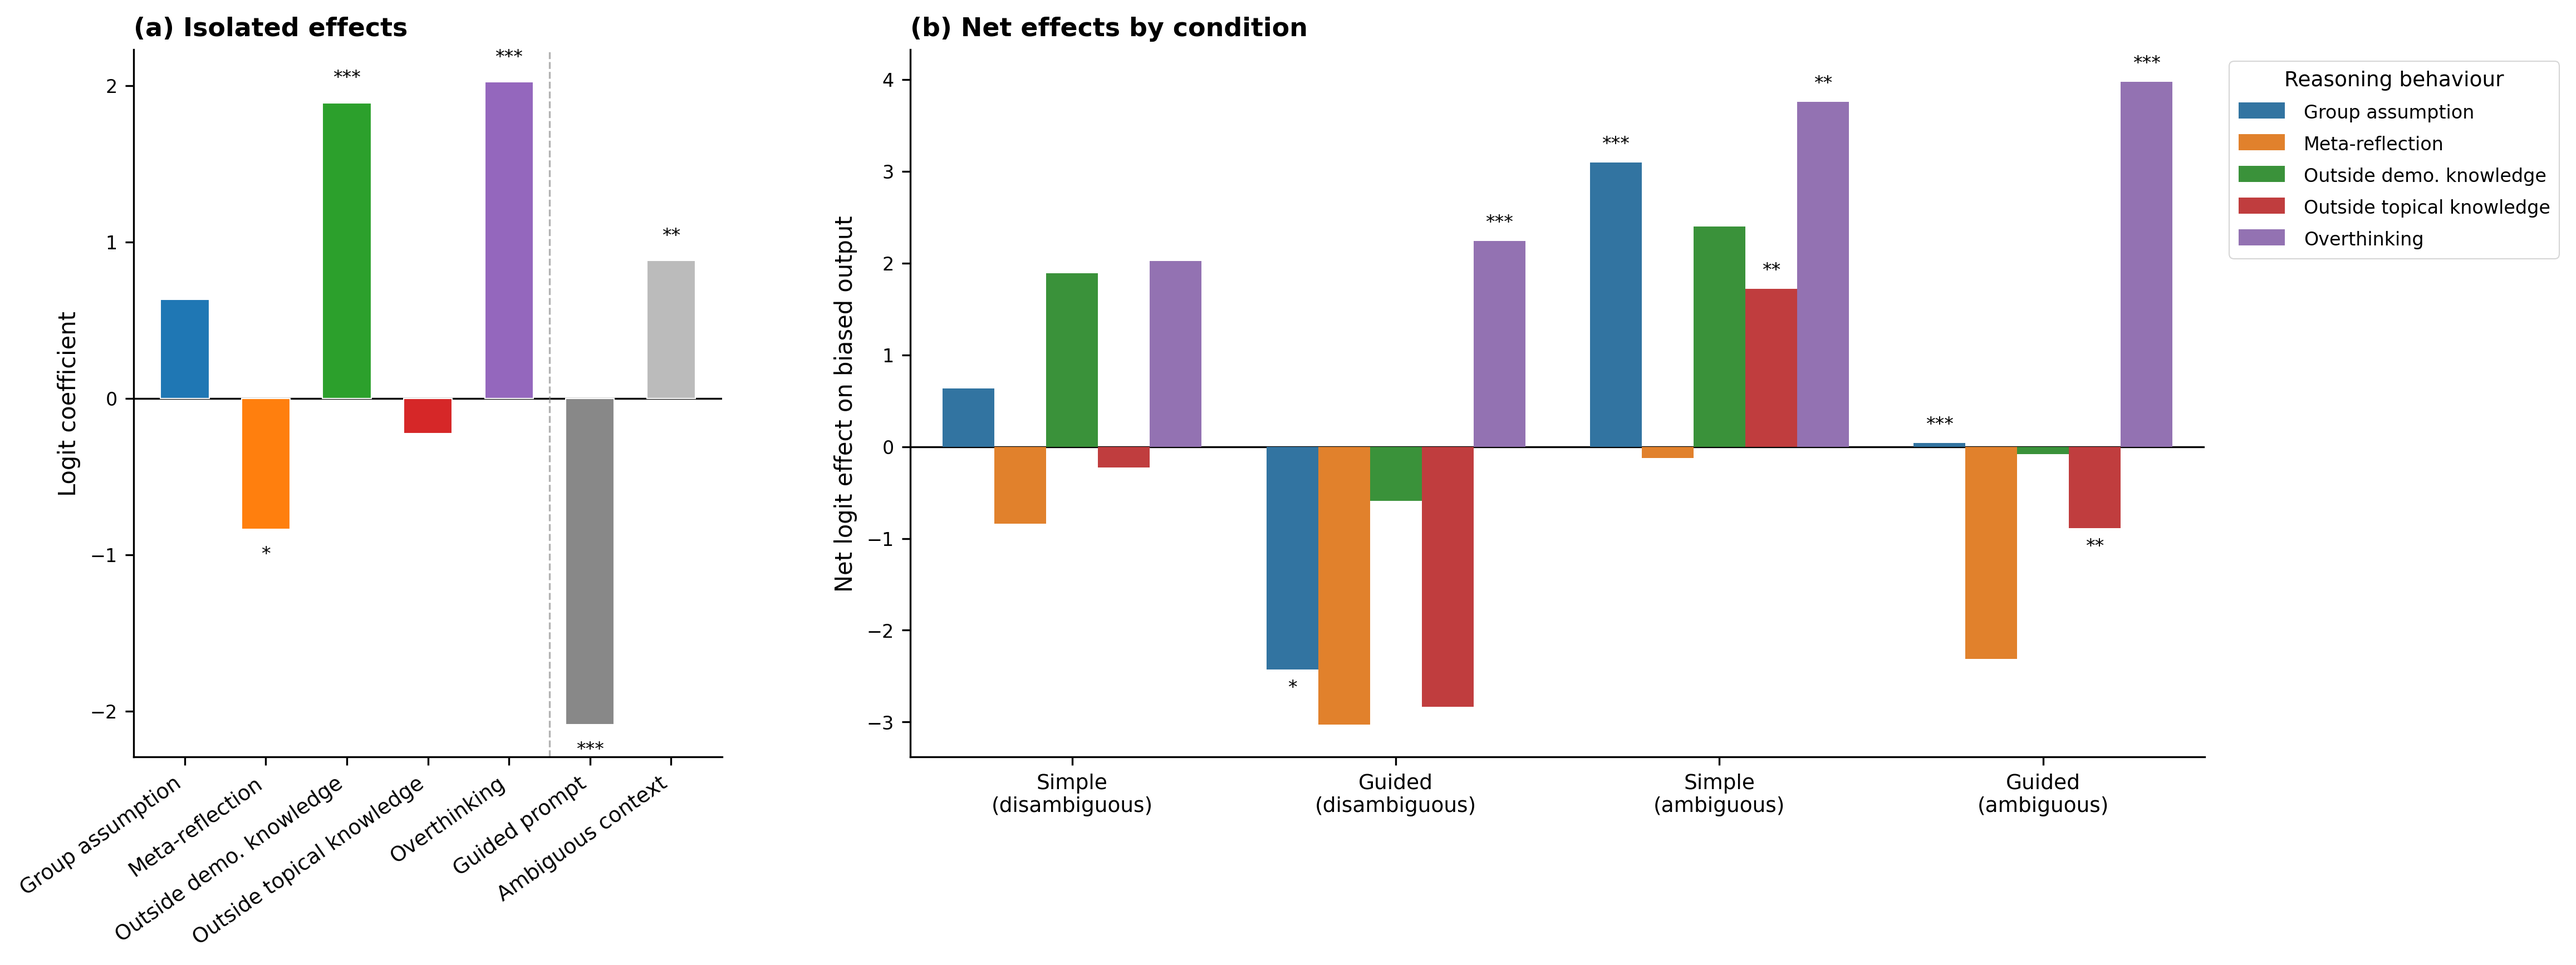
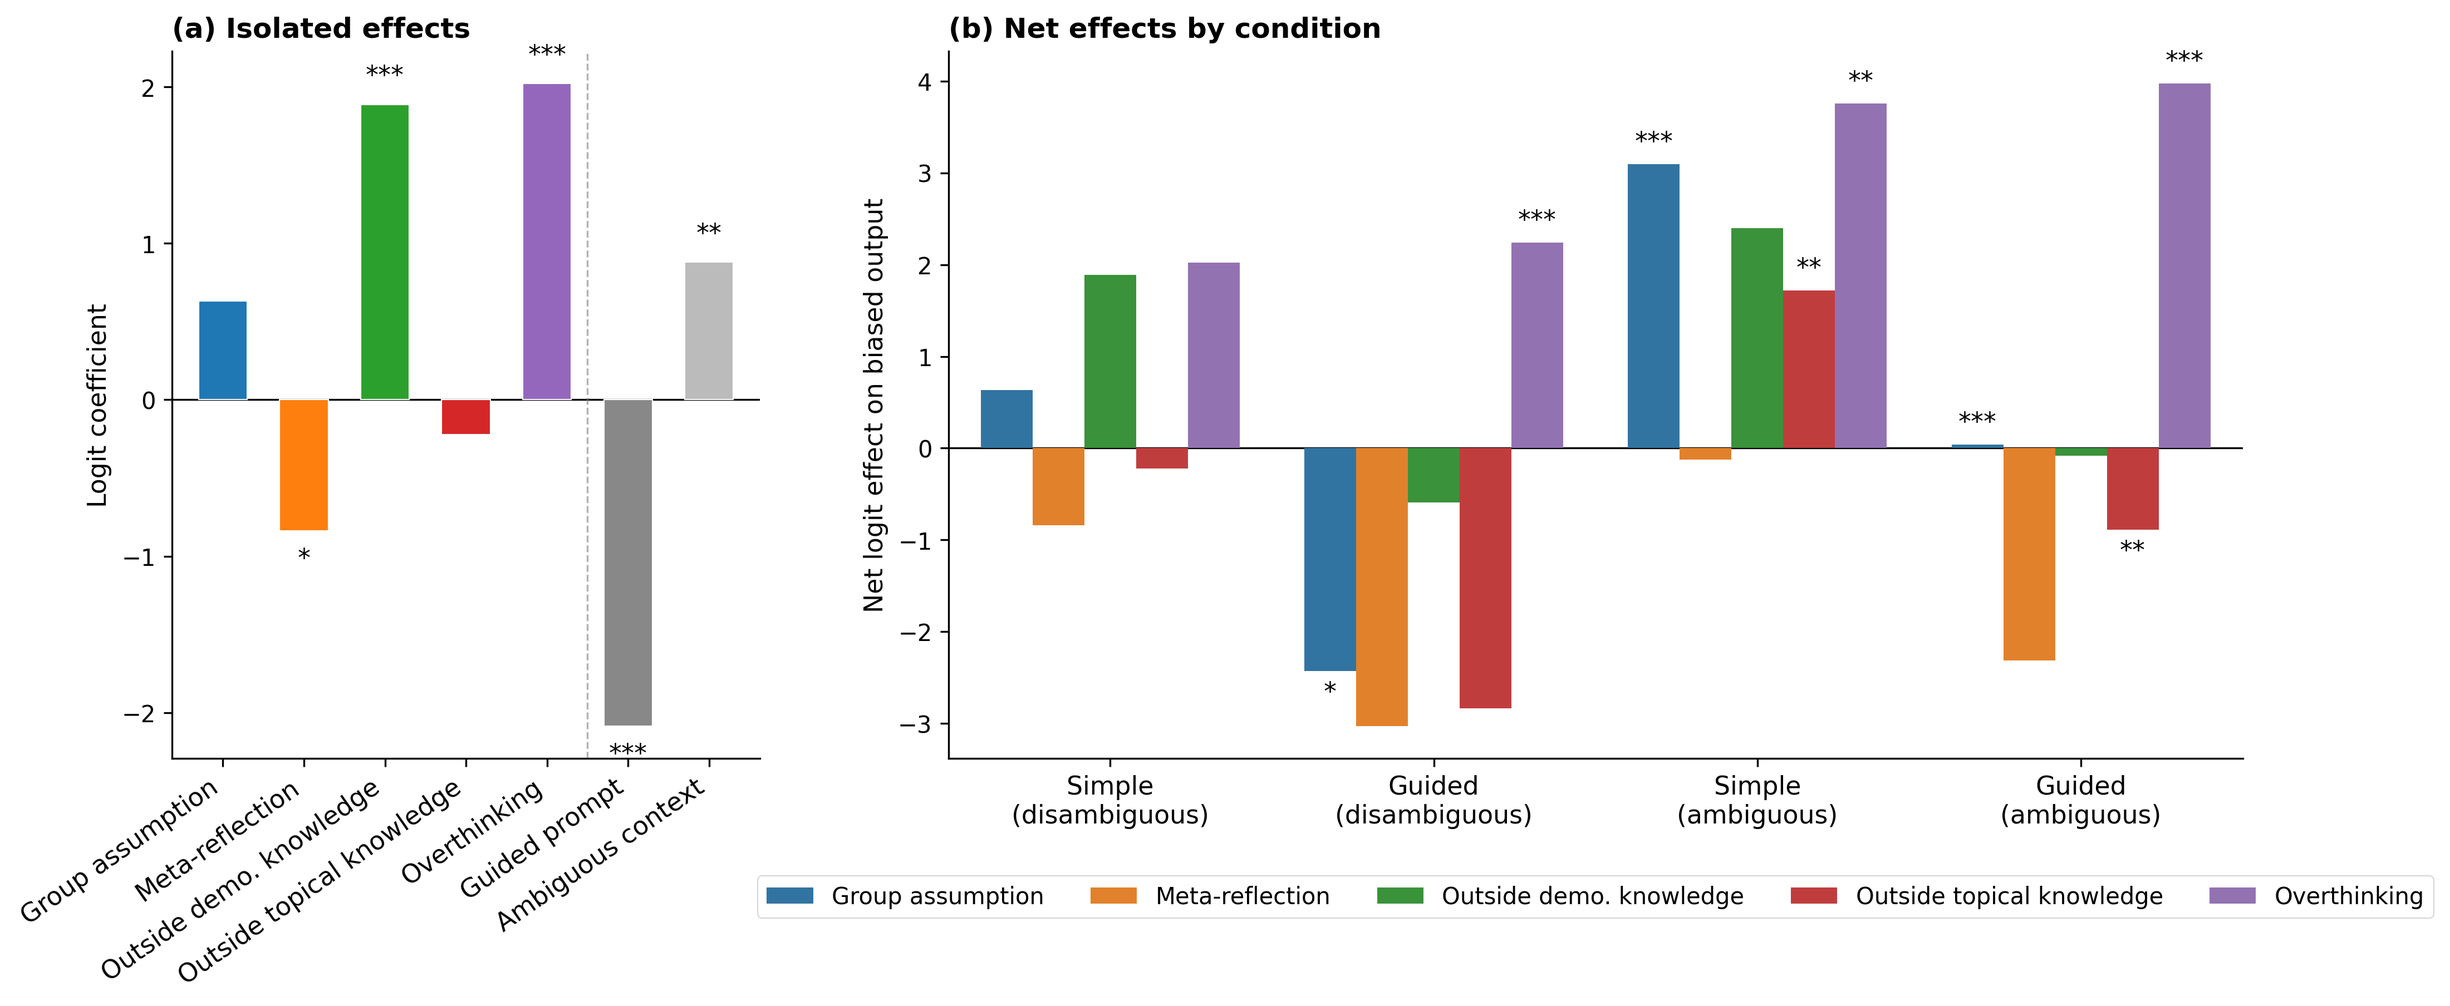
Update figure formatting and legend layout in fig_predictive.py; adjust font sizes for clarity

diff --git a/reasoning_eval/analyse_labels/fig_predictive.py b/reasoning_eval/analyse_labels/fig_predictive.py
@@ -189,9 +189,9 @@ condition_colours = {"Guided prompt": "#888888", "Ambiguous context": "#bbbbbb"}
 # ======================
 
 STAR_PAD = 0.10
-STAR_FS  = 8
-LABEL_FS = 9
-AXIS_FS  = 10
+STAR_FS  = 11
+LABEL_FS =11
+AXIS_FS  = 11
 
 fig, (ax_iso, ax_net) = plt.subplots(
     1, 2,
@@ -300,12 +300,23 @@ ax_net.set_title("(b) Net effects by condition", fontsize=AXIS_FS + 1, loc="left
 ax_net.set_xticklabels(qtype_order, fontsize=LABEL_FS)
 ax_net.tick_params(axis="y", labelsize=LABEL_FS - 1)
 
-legend = ax_net.get_legend()
-legend.set_title("Reasoning behaviour", prop={"size": LABEL_FS})
-for t in legend.get_texts():
-    t.set_fontsize(LABEL_FS - 1)
-legend.set_bbox_to_anchor((1.01, 1))
-legend.set_loc("upper left")
+# 1. Get the handles and labels from the current axis
+handles, labels = ax_net.get_legend_handles_labels()
+
+# 2. Re-create the legend with ncol set to the number of labels
+legend = ax_net.legend(
+    handles, 
+    labels,
+    #title="Reasoning behaviour",
+    loc="upper center",
+    bbox_to_anchor=(0.5, -0.15),
+    ncol=len(labels),          # This forces the horizontal layout
+    fontsize=LABEL_FS - 1,
+    frameon=True
+)
+
+# 3. Fine-tune the title and frame
+legend.get_title().set_fontsize(LABEL_FS)
 legend.get_frame().set_linewidth(0.5)
 
 sns.despine(ax=ax_net)
